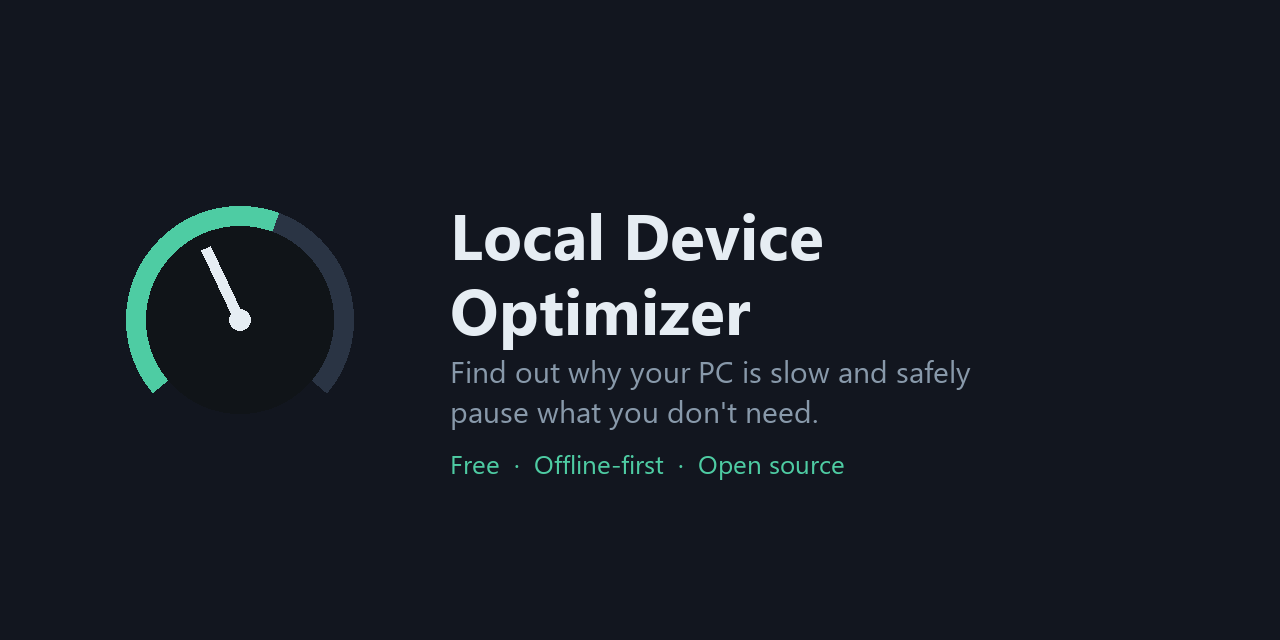
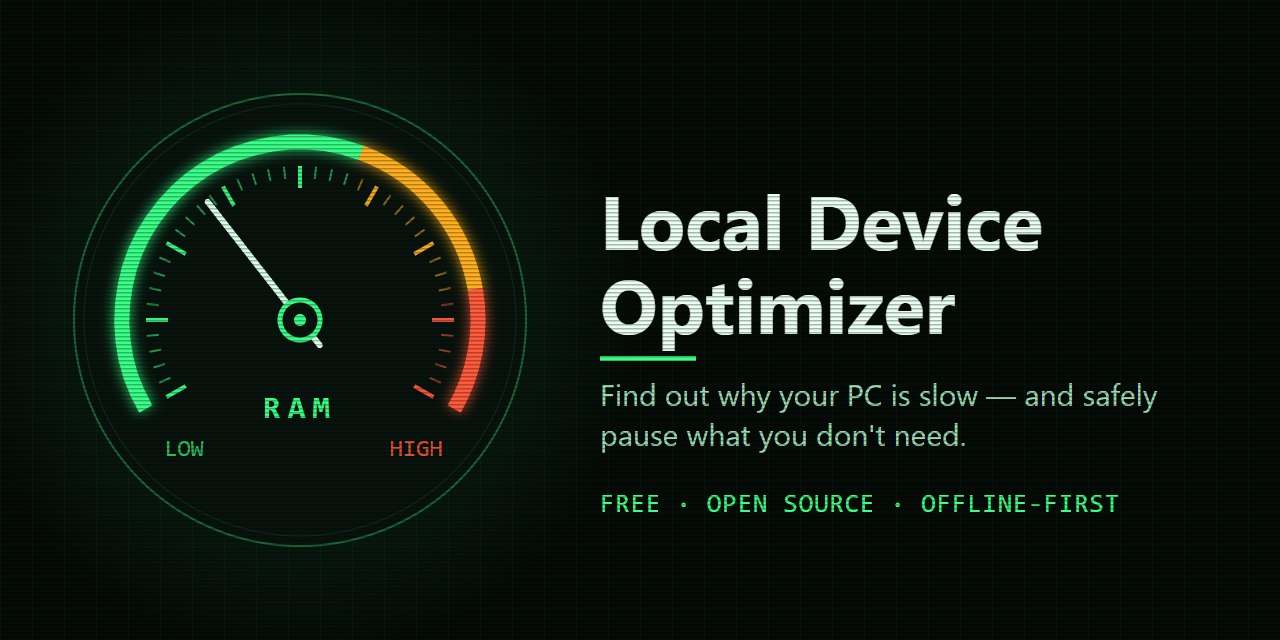
docs: system-monitor dashboard visual identity for README
Each README now has its own visual identity instead of a shared template:
banner, how-it-works diagram, cost chart and social preview all restyled to match.

diff --git a/scripts/make_social_preview.py b/scripts/make_social_preview.py
@@ -1,0 +1,88 @@
+"""Generate docs/assets/social-preview.png (1280x640) in the system-monitor style.
+
+Renders an SVG with headless Chrome (playwright). One-off content tool, not part
+of the app:
+
+    uv run --with playwright python scripts/make_social_preview.py
+"""
+from __future__ import annotations
+
+import math
+import os
+
+from playwright.sync_api import sync_playwright
+
+HERE = os.path.dirname(os.path.abspath(__file__))
+OUT = os.path.join(HERE, "..", "docs", "assets", "social-preview.png")
+G, A, R = "#39ff88", "#ffb020", "#ff5a3c"
+MONO = "font-family=\"Consolas,'Courier New',monospace\""
+SANS = "font-family=\"'Segoe UI',system-ui,sans-serif\""
+CX, CY = 300, 320
+
+
+def pt(a: float, r: float) -> tuple[float, float]:
+    return CX + r * math.cos(math.radians(a)), CY + r * math.sin(math.radians(a))
+
+
+def arc(a0: float, a1: float, r: float, col: str, w: int, op: float = 1) -> str:
+    x0, y0 = pt(a0, r)
+    x1, y1 = pt(a1, r)
+    large = 1 if a1 - a0 > 180 else 0
+    return (f'<path d="M{x0:.1f} {y0:.1f} A{r} {r} 0 {large} 1 {x1:.1f} {y1:.1f}" fill="none" '
+            f'stroke="{col}" stroke-width="{w}" opacity="{op}"/>')
+
+
+def build_svg() -> str:
+    s = [f'''<svg xmlns="http://www.w3.org/2000/svg" width="1280" height="640" viewBox="0 0 1280 640">
+<defs>
+<pattern id="grid" width="32" height="32" patternUnits="userSpaceOnUse"><path d="M32 0H0V32" fill="none" stroke="{G}" stroke-opacity="0.07"/></pattern>
+<pattern id="scan" width="4" height="4" patternUnits="userSpaceOnUse"><rect width="4" height="1.5" fill="#000" fill-opacity="0.28"/></pattern>
+<radialGradient id="glow" cx="{CX}" cy="{CY}" r="340" gradientUnits="userSpaceOnUse"><stop offset="0" stop-color="{G}" stop-opacity="0.16"/><stop offset="1" stop-color="{G}" stop-opacity="0"/></radialGradient>
+<filter id="blur" x="-20%" y="-20%" width="140%" height="140%"><feGaussianBlur stdDeviation="6"/></filter>
+</defs>
+<rect width="1280" height="640" fill="#050b07"/><rect width="1280" height="640" fill="url(#grid)"/><rect width="1280" height="640" fill="url(#glow)"/>
+<circle cx="{CX}" cy="{CY}" r="226" fill="#08130d" stroke="{G}" stroke-opacity="0.35" stroke-width="2"/>
+<circle cx="{CX}" cy="{CY}" r="216" fill="none" stroke="{G}" stroke-opacity="0.12"/>''']
+    r = 178
+    segs = [(150, 290, G), (290, 350, A), (350, 390, R)]
+    s.append('<g filter="url(#blur)">' + "".join(arc(a, b, r, c, 18, 0.7) for a, b, c in segs) + "</g>")
+    s.append("".join(arc(a, b, r, c, 15) for a, b, c in segs))
+    for i in range(41):
+        a = 150 + i * 6
+        major = i % 5 == 0
+        x0, y0 = pt(a, 154)
+        x1, y1 = pt(a, 132 if major else 142)
+        col = G if a <= 290 else (A if a <= 350 else R)
+        s.append(f'<line x1="{x0:.1f}" y1="{y0:.1f}" x2="{x1:.1f}" y2="{y1:.1f}" stroke="{col}" '
+                 f'stroke-width="{4 if major else 2}" stroke-opacity="{0.95 if major else 0.55}"/>')
+    nx, ny = pt(232, 150)
+    tx, ty = pt(52, 32)
+    s.append(f'<line x1="{tx:.1f}" y1="{ty:.1f}" x2="{nx:.1f}" y2="{ny:.1f}" stroke="#d9ffe8" stroke-width="6" stroke-linecap="round"/>')
+    s.append(f'<circle cx="{CX}" cy="{CY}" r="20" fill="#08130d" stroke="{G}" stroke-width="5"/><circle cx="{CX}" cy="{CY}" r="6" fill="{G}"/>')
+    s.append(f'<text x="{CX}" y="{CY+98}" text-anchor="middle" {MONO} font-size="32" font-weight="700" fill="{G}" letter-spacing="7">RAM</text>')
+    s.append(f'<text x="{CX-116}" y="{CY+136}" text-anchor="middle" {MONO} font-size="24" fill="{G}" fill-opacity="0.7">LOW</text>')
+    s.append(f'<text x="{CX+116}" y="{CY+136}" text-anchor="middle" {MONO} font-size="24" fill="{R}" fill-opacity="0.85">HIGH</text>')
+    s.append(f'<text x="600" y="250" {SANS} font-size="76" font-weight="700" fill="#eafff2">Local Device</text>')
+    s.append(f'<text x="600" y="334" {SANS} font-size="76" font-weight="700" fill="#eafff2">Optimizer</text>')
+    s.append(f'<rect x="600" y="356" width="96" height="5" fill="{G}"/>')
+    s.append(f'<text x="600" y="406" {SANS} font-size="30" fill="#9fd9b6">Find out why your PC is slow — and safely</text>')
+    s.append(f'<text x="600" y="446" {SANS} font-size="30" fill="#9fd9b6">pause what you don\'t need.</text>')
+    s.append(f'<text x="600" y="512" {MONO} font-size="26" fill="{G}" letter-spacing="1">FREE  ·  OPEN SOURCE  ·  OFFLINE-FIRST</text>')
+    s.append('<rect width="1280" height="640" fill="url(#scan)"/></svg>')
+    return "\n".join(s)
+
+
+def main() -> None:
+    html = f'<body style="margin:0;background:#050b07">{build_svg()}</body>'
+    with sync_playwright() as p:
+        b = p.chromium.launch(channel="chrome", headless=True)
+        pg = b.new_page(viewport={"width": 1280, "height": 640})
+        pg.set_content(html)
+        pg.wait_for_timeout(300)
+        pg.screenshot(path=OUT)
+        b.close()
+    print(f"Wrote {OUT}")
+
+
+if __name__ == "__main__":
+    main()

diff --git a/scripts/make_icon_assets.py b/scripts/make_icon_assets.py
@@ -1,4 +1,4 @@
-"""Generate docs/assets/icon-256.png and docs/assets/social-preview.png.
+"""Generate docs/assets/icon-256.png (social-preview.png comes from make_social_preview.py).
 
 One-off content-generation tool, not part of the app itself — its dependency
 (Pillow) is intentionally not in requirements.txt:
@@ -11,27 +11,16 @@ from __future__ import annotations
 import math
 import os
 
-from PIL import Image, ImageDraw, ImageFont
+from PIL import Image, ImageDraw
 
 HERE = os.path.dirname(os.path.abspath(__file__))
 ASSETS = os.path.join(HERE, "..", "docs", "assets")
 
 BG = (18, 22, 31)
 PANEL = (27, 34, 48)
-MUTED = (136, 153, 170)
 FG = (230, 237, 243)
 TEAL = (78, 204, 163)
 DARK = (16, 20, 24)
-
-
-def _font(size: int, bold: bool = False):
-    candidates = (
-        ["C:/Windows/Fonts/segoeuib.ttf"] if bold else ["C:/Windows/Fonts/segoeui.ttf"]
-    ) + ["C:/Windows/Fonts/arial.ttf"]
-    for path in candidates:
-        if os.path.isfile(path):
-            return ImageFont.truetype(path, size)
-    return ImageFont.load_default()
 
 
 def draw_gauge_icon(size: int) -> Image.Image:
@@ -70,33 +59,10 @@ def make_icon() -> None:
     canvas.save(os.path.join(ASSETS, "icon-256.png"))
 
 
-def make_social_preview() -> None:
-    w, h = 1280, 640
-    img = Image.new("RGB", (w, h), BG)
-    d = ImageDraw.Draw(img)
-
-    gauge = draw_gauge_icon(300)
-    img.paste(gauge, (90, (h - 300) // 2), gauge)
-
-    title_font = _font(64, bold=True)
-    sub_font = _font(30)
-    tag_font = _font(26)
-
-    tx = 90 + 300 + 60
-    d.text((tx, 190), "Local Device", font=title_font, fill=FG)
-    d.text((tx, 265), "Optimizer", font=title_font, fill=FG)
-    d.text((tx, 350), "Find out why your PC is slow and safely", font=sub_font, fill=MUTED)
-    d.text((tx, 390), "pause what you don't need.", font=sub_font, fill=MUTED)
-    d.text((tx, 445), "Free  ·  Offline-first  ·  Open source", font=tag_font, fill=TEAL)
-
-    img.save(os.path.join(ASSETS, "social-preview.png"))
-
-
 def main() -> None:
     os.makedirs(ASSETS, exist_ok=True)
     make_icon()
-    make_social_preview()
-    print("Wrote icon-256.png and social-preview.png")
+    print("Wrote icon-256.png")
 
 
 if __name__ == "__main__":

diff --git a/scripts/make_cost_chart.py b/scripts/make_cost_chart.py
@@ -37,11 +37,15 @@ DATA = [
     ("Local Device Optimizer", 0, "free, forever"),
 ]
 
-BG = "#12161f"
-FG = "#e6edf3"
-MUTED = "#8899aa"
-FREE_COLOR = "#4ecca3"
-PAID_COLOR = "#4d6a8a"
+# System-monitor identity: near-black green-tinted bg, phosphor green, amber.
+BG = "#050b07"
+FG = "#eafff2"
+MUTED = "#9fd9b6"
+FREE_COLOR = "#39ff88"
+PAID_COLOR = "#b87a14"
+GRID = "#143a24"  # faint phosphor grid, pre-blended over BG (opaque so label boxes hide it)
+
+plt.rcParams["font.family"] = ["Consolas", "DejaVu Sans Mono", "monospace"]
 
 
 def main() -> None:
@@ -80,9 +84,10 @@ def main() -> None:
                  pad=14, loc="left", fontweight="bold")
     for side in ("top", "right", "left"):
         ax.spines[side].set_visible(False)
-    ax.spines["bottom"].set_color("#2a3444")
-    ax.xaxis.grid(True, color="#2a3444", linewidth=0.7, zorder=0)
+    ax.spines["bottom"].set_color(GRID)
+    ax.xaxis.grid(True, color=GRID, linewidth=0.8, zorder=0)
     ax.set_axisbelow(True)
+    ax.yaxis.grid(True, color=GRID, linewidth=0.5, zorder=0, alpha=0.6)
 
     fig.tight_layout()
 
